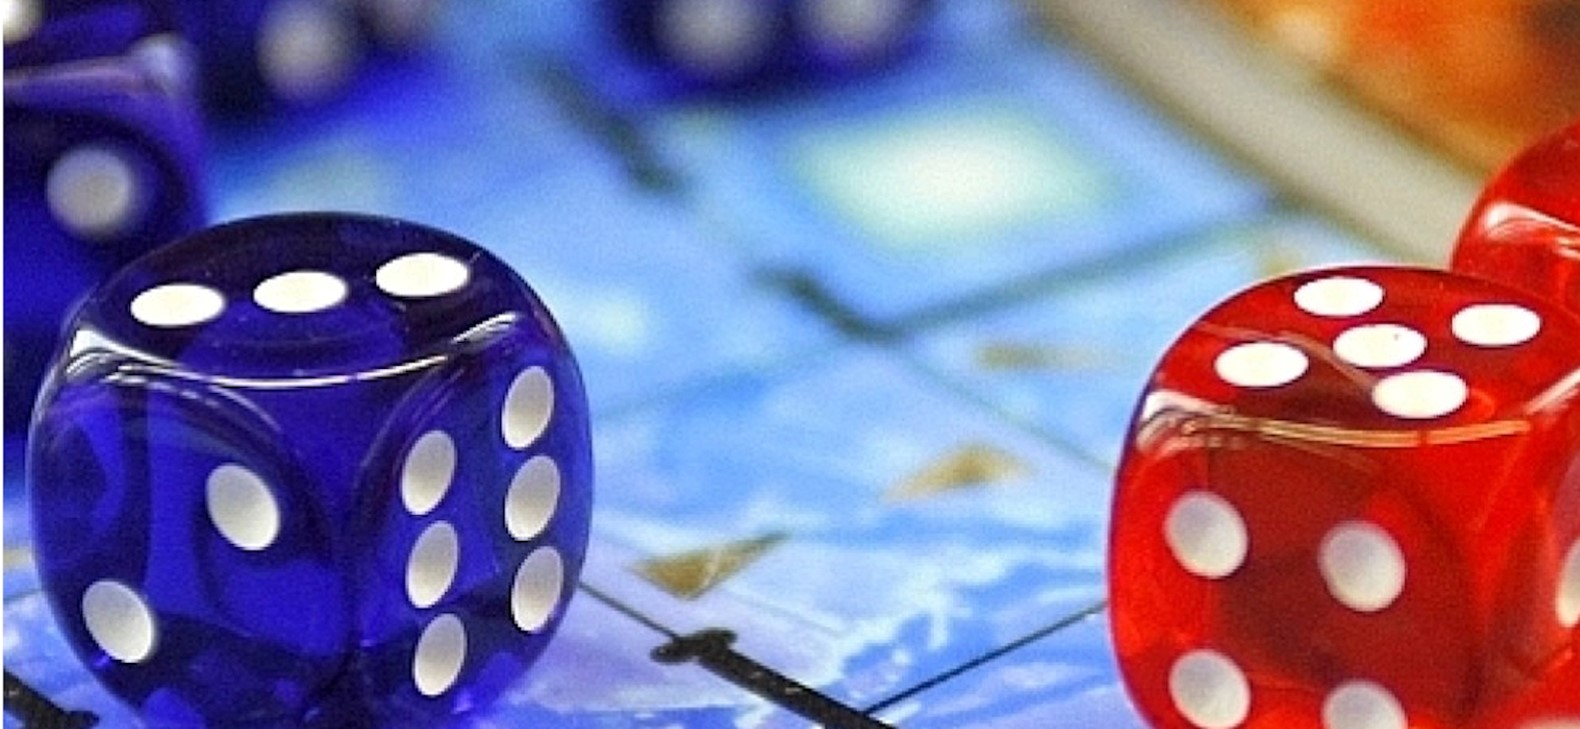
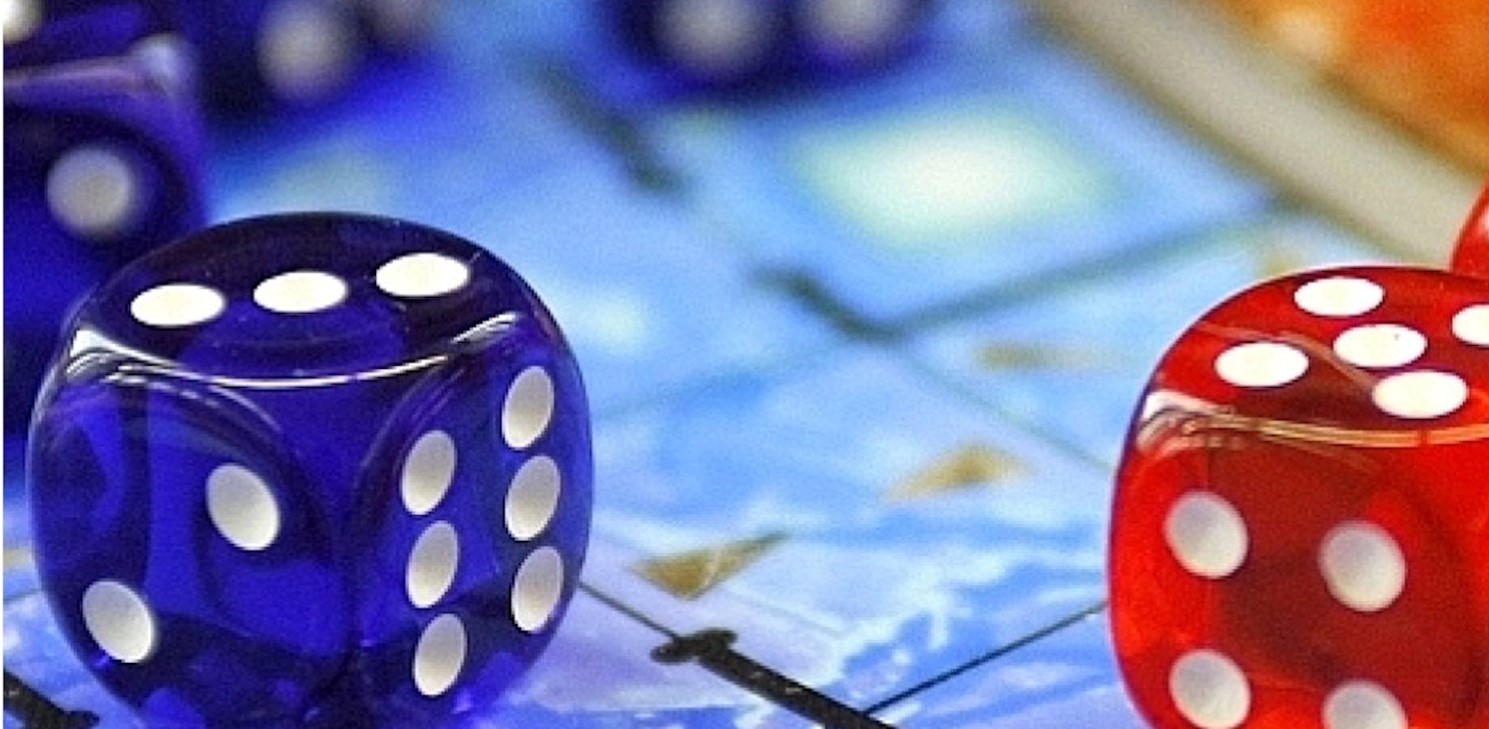
files update

diff --git a/seitendesign.css b/seitendesign.css
@@ -15,7 +15,7 @@ h2 {
 	border-width: 5px;
 	border-style: groove;
 	color:orange;   /* Farbe weiß */
-	font-size:20pt;  /* Größe 28pt   */
+	font-size:20pt;  /* Größe 20pt   */
 	font-family:arial, "lucida console", sans-serif; /* Schriftart */	
 }
 
@@ -66,7 +66,7 @@ h3 {
 	position: absolute;
 	width: 250px;
 	height: 230px;
-	top: 620px;
+	top: 640px;
 	left: 640px;
 }
 
@@ -123,7 +123,7 @@ border-style: groove;
   width: 265px;
   height: 250px;
   top: 650px;
-  left:120px;
+  left:100px;
 }
   
  #Wuerfelgegneranz {
@@ -135,6 +135,6 @@ border-style: groove;
   width: 265px;
   height: 250px;
   top: 650px;
-  left:1145px;
+  left:1125px;
 } 
   

diff --git a/index.html b/index.html
@@ -364,12 +364,12 @@
 	</div>
 	
 	
-	<div id="Wuerfelspieleranz" style="background-image:url(Bilder/wuerf1.png);background-size:cover;cursor:pointer" ></div>>	
+	<div id="Wuerfelspieleranz" style="background-image:url(Bilder/wuerf1.png);background-size:cover;cursor:pointer" ></div>	
 		
 		
 	</div>
 	
-	<div id="Wuerfelgegneranz" style="background-image:url(Bilder/wuerf1.png);background-size:cover;cursor:pointer" ></div>>	
+	<div id="Wuerfelgegneranz" style="background-image:url(Bilder/wuerf1.png);background-size:cover;cursor:pointer" ></div>	
 		
 		
 	</div>
